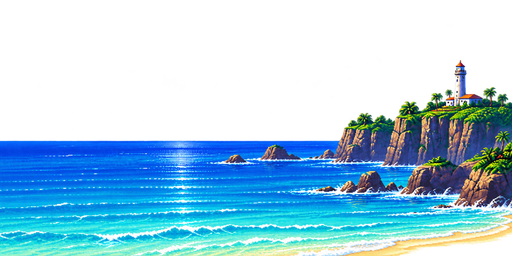
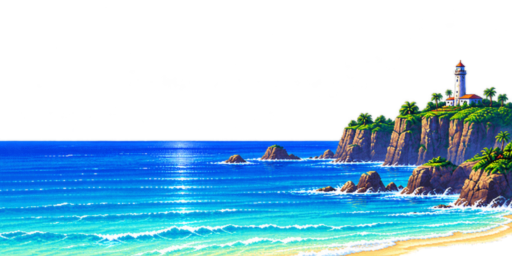
fix: steady the parallax lab sea cadence
Replace the full smoothstep pan with a trapezoidal profile: 30-frame ease-in/out ramps and a constant middle at 300 fields per direction. The sea now advances in a regular 3-4 field cadence instead of crawling every 8 fields near the ends. Lightly soften the sea RGB before quantization to reduce one-pixel wave shimmer. NTSC 4/4, PAL 4/4, Long 5/5.

diff --git a/examples/vdp2_parallax_lab/main.c b/examples/vdp2_parallax_lab/main.c
@@ -34,7 +34,8 @@
 #define SCREEN_W 320u
 #define SCREEN_H 224u
 #define PAN_MAX 176u
-#define PAN_HALF_FRAMES 720u
+#define PAN_HALF_FRAMES 300u
+#define PAN_RAMP_FRAMES 30u
 #define PAN_PERIOD (PAN_HALF_FRAMES * 2u)
 
 #define FG_BITMAP_BASE 0x00000u
@@ -171,20 +172,30 @@ static sat_result_t setup_scene(void) {
     return st;
 }
 
-/* Pan in 16.16 fixed point with smoothstep easing.  A linear triangle wave
- * reverses velocity instantly at the ends; smoothstep lets the camera settle
- * before it turns around.  The fractional part also feeds NBG0/NBG1's eight
- * scroll fraction bits, so the foreground and sea move subpixel instead of
- * jumping one dot every few fields. */
+/* Pan in 16.16 fixed point with a trapezoidal velocity profile: a short
+ * ease-in, a long constant-speed middle, then a short ease-out.  A triangle
+ * wave reverses velocity instantly; a full smoothstep spends too much of the
+ * path creeping, which makes the slow NBG1 sea advance only every 8 fields
+ * and read as a stutter.  The constant middle keeps the sea stepping at a
+ * regular cadence, while the fractional part still feeds NBG0/NBG1's eight
+ * scroll fraction bits. */
 static uint32_t pan_for_tick(uint32_t tick) {
-    const uint32_t kOne = 0x10000u;
     const uint32_t phase = tick % PAN_PERIOD;
     const uint32_t t = phase < PAN_HALF_FRAMES ? phase : PAN_PERIOD - phase;
-    const uint32_t t_fx = (t * kOne) / PAN_HALF_FRAMES;
-    const uint64_t t2_fx = ((uint64_t)t_fx * t_fx) >> 16u;
-    const uint32_t three_minus_2t = 3u * kOne - 2u * t_fx;
-    const uint32_t s_fx = (uint32_t)((t2_fx * three_minus_2t) >> 16u);
-    return s_fx * PAN_MAX;
+    const uint32_t v = (PAN_MAX * 0x10000u) / (PAN_HALF_FRAMES - PAN_RAMP_FRAMES);
+    if (t < PAN_RAMP_FRAMES) {
+        return (uint32_t)(((uint64_t)v * t * t) / (2u * PAN_RAMP_FRAMES));
+    }
+    if (t < PAN_HALF_FRAMES - PAN_RAMP_FRAMES) {
+        return (uint32_t)((uint64_t)v * PAN_RAMP_FRAMES / 2u +
+                          (uint64_t)v * (t - PAN_RAMP_FRAMES));
+    }
+    {
+        const uint32_t remaining = PAN_HALF_FRAMES - t;
+        return PAN_MAX * 0x10000u -
+               (uint32_t)(((uint64_t)v * remaining * remaining) /
+                          (2u * PAN_RAMP_FRAMES));
+    }
 }
 
 static int32_t layer_scroll(uint32_t pan_fx, uint32_t percent) {

diff --git a/docs/VDP2_EVIDENCE_LEDGER.md b/docs/VDP2_EVIDENCE_LEDGER.md
@@ -35,7 +35,7 @@ row. Nothing in this file is a hardware claim.
 | **E10** `vdp2_parallax_world` (36) | `build-example.ps1` | No scene-specific host test; shared VDP2 API host tests | `run-vdp2-parallax-world.ps1` 7/7 | `run-vdp2-parallax-world.ps1 -Pal` 7/7 | 1.32.1 live-path capture | `-Long` 7/7, 3,600 fields | Reference path is a pre-rendered VDP1 comparison, not a second hardware renderer. |
 | **E11** `vdp2_fighting_stage` (37) | `build-example.ps1` | Shared character and VDP2 host tests | `run-vdp2-fighting-stage.ps1` 5/5 | `run-vdp2-fighting-stage.ps1 -Pal` 5/5 | 1.32.1 stage off/on captures | N/A | Stage is an E11-only compilation of the shared demo; `fighter_arena_3d` keeps its legacy NBG0 backdrop. |
 | **E12** `vdp2_neon_city` (38) | `build-example.ps1` | Shared VDP2 API host tests | `run-vdp2-neon-city.ps1` 6/6 | `run-vdp2-neon-city.ps1 -Pal` 6/6 | 1.32.1 ring 0/1 and light-pool captures | `-Long` 6/6, 1,753 scene frames, 1,752 switches, equal model/VRAM CRC | Light pool is an artistic approximation; all timings are emulator-side. |
-| **E13** `vdp2_parallax_lab` (post-A) | `build-example.ps1` | Shared VDP2 API host tests | `run-vdp2-parallax-lab.ps1` 4/4, 1 skipped (`-Long`) | `run-vdp2-parallax-lab.ps1 -Pal` 4/4, 1 skipped (`-Long`) | 1.32.1 live pan at frames 87 and 497 | `-Long` 5/5, 2,400 fields | Art is a 512x256 reduction of an external four-layer lab, not seamless; alpha is thresholded, and the source was not authored for Saturn. |
+| **E13** `vdp2_parallax_lab` (post-A) | `build-example.ps1` | Shared VDP2 API host tests | `run-vdp2-parallax-lab.ps1` 4/4, 1 skipped (`-Long`) | `run-vdp2-parallax-lab.ps1 -Pal` 4/4, 1 skipped (`-Long`) | 1.32.1 live pan captures | `-Long` 5/5, 2,400 fields | Art is a 512x256 reduction of an external four-layer lab, not seamless; alpha is thresholded, the sea is lightly softened against scroll shimmer, and the source was not authored for Saturn. |
 
 The sweep logs are written to `harness/build/sweep_ntsc/` and
 `harness/build/sweep_pal/`; each wrapper also leaves its own probe JSON,

diff --git a/examples/vdp2_parallax_lab/README.md b/examples/vdp2_parallax_lab/README.md
@@ -6,10 +6,10 @@ scroll registers per field; every background pixel comes from VDP2 VRAM.
 The art is a 512x256 reduction of the four layers in
 `vdp2_parallax_lab_with_pngs.zip` (sky, mountains, sea/cliffs, foreground).
 The source is not seamless horizontally, so the camera pans 176 dots and
-back instead of wrapping over a seam. The pan uses smoothstep easing and
-16.16 fixed point, so NBG0/NBG1 move subpixel rather than stepping one dot at
-a time. Alpha is thresholded into the VDP2 transparent dot code; the sky is
-opaque.
+back instead of wrapping over a seam. The pan uses a trapezoidal velocity
+profile and 16.16 fixed point: short ease-in/out ramps and a constant middle,
+so NBG0/NBG1 keep a regular cadence instead of creeping at the ends. Alpha is
+thresholded into the VDP2 transparent dot code; the sky is opaque.
 
 ```powershell
 .\build-example.ps1 vdp2_parallax_lab
@@ -40,7 +40,9 @@ tile strip. The pan factors are 8/24/52/100 percent, from the source lab.
 `tools/convert_vdp2_parallax_lab.py` quantizes the four PNGs and emits the
 big-endian bitmap words, cell data and pattern-name maps. It reserves dot 0
 for the transparent cutouts and uses the tool's own 16-colour mountain
-palette; no runtime image decoding or heap allocation is involved.
+palette; no runtime image decoding or heap allocation is involved. The sea
+RGB is lightly softened before quantization because its one-pixel wave
+highlights alias badly when a slow layer scrolls.
 
 ## Evidence and limits
 

diff --git a/CHANGELOG.md b/CHANGELOG.md
@@ -14,8 +14,9 @@ The version is defined once, in the `VERSION` file.
 - `vdp2_parallax_lab` (E13, post-plan): a four-layer hand-painted coast
   driven entirely by VDP2. NBG0/NBG1 are 512x256 8bpp bitmaps and NBG2/NBG3
   are two-word cell maps (4bpp mountains, 8bpp sky); the SH-2 updates only
-  four scroll registers, using a smoothstep-eased 16.16 pan so NBG0/NBG1
-  receive subpixel scroll instead of one-dot steps.
+  four scroll registers, using a 16.16 trapezoidal pan (short ease ramps and a
+  constant middle) so NBG0/NBG1 keep a regular subpixel cadence. The sea art
+  is lightly softened to reduce one-pixel wave shimmer.
   `tools/convert_vdp2_parallax_lab.py` converts the
   four source PNGs into big-endian bitmap, cell and map assets, and
   `harness/run-vdp2-parallax-lab.ps1` checks the public layer configuration,
